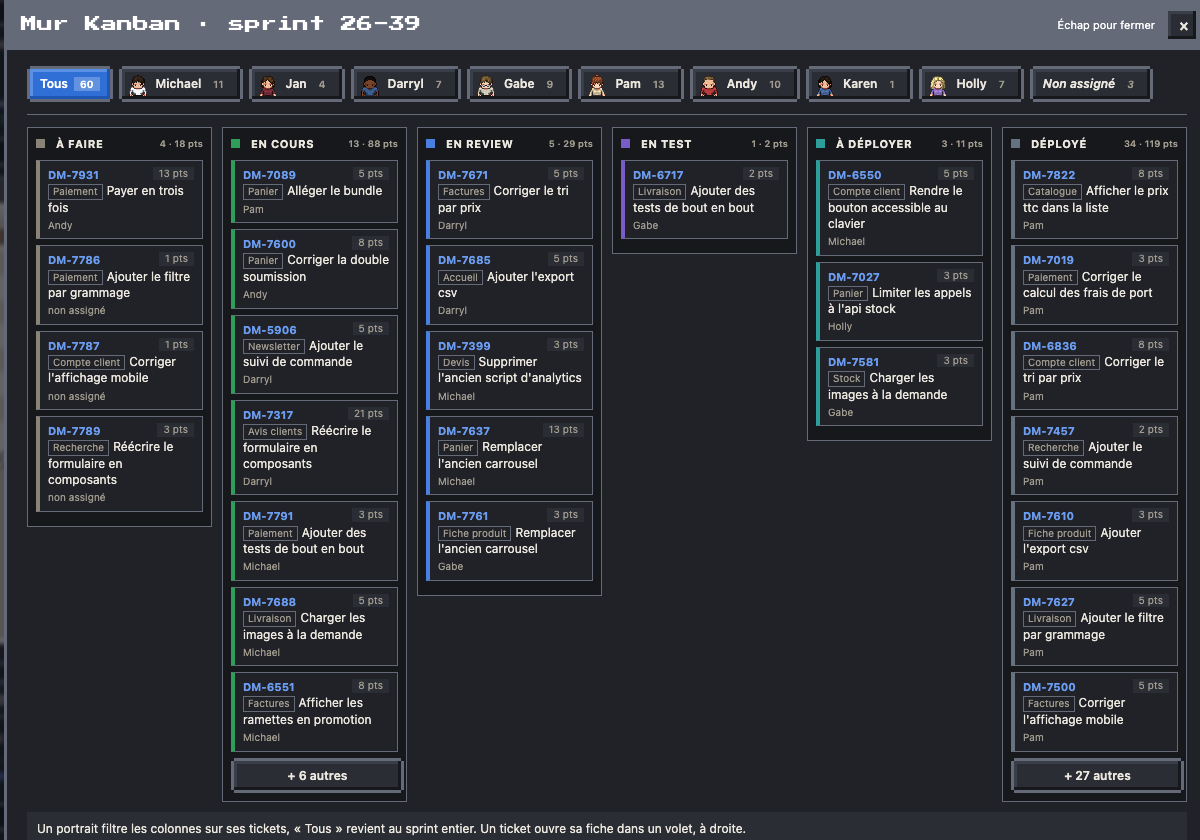
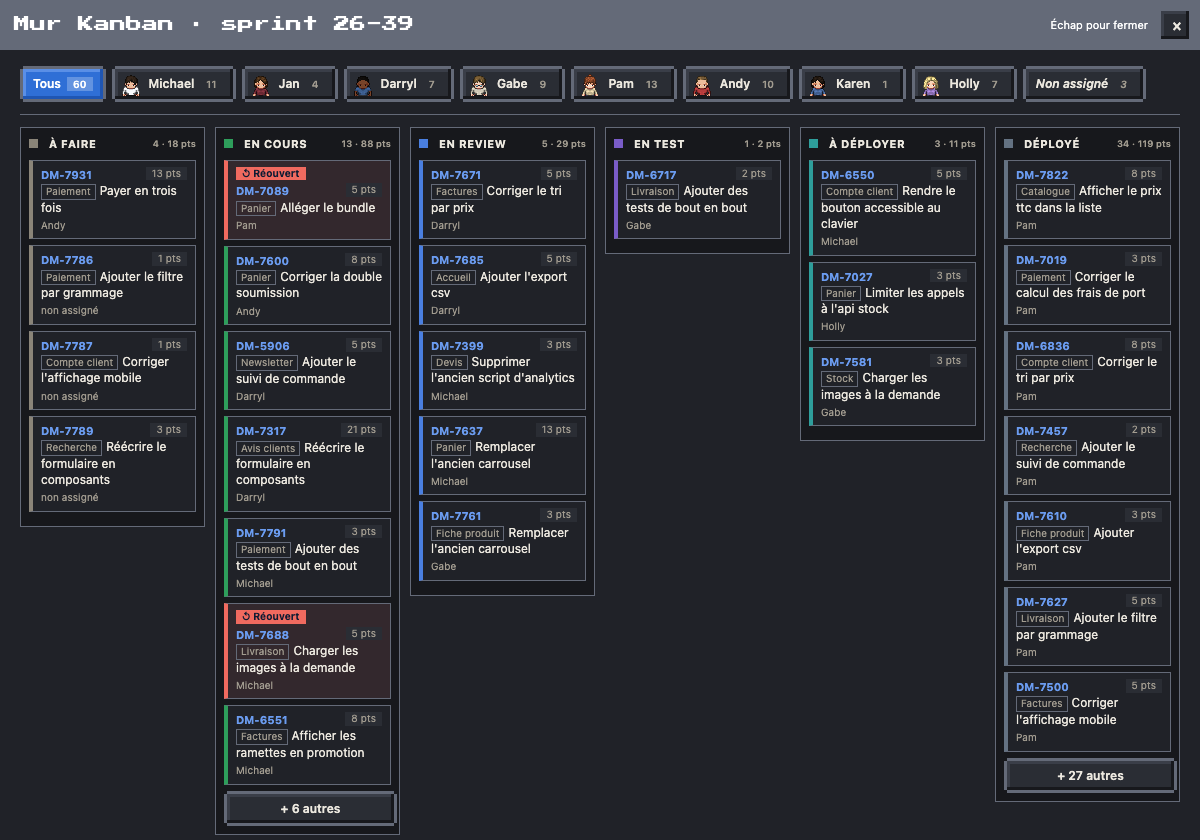
fix(kanban): un ticket réouvert se repère sur sa carte, « ↺ Réouvert »
Un ticket réouvert (statut jira.flow.reopened, « Reopen ») est rangé dans
« En cours », comme dans Jira, et sa carte ne le montrait plus : l'ancienne
liste « Ses tickets » affichait « Réouvert », le Kanban qui l'a remplacée
(#116) non. Sa carte porte maintenant une pastille « ↺ Réouvert », un liseré
rouge et un fond rosé, en vue compacte comprise. Contraste de la pastille :
texte --on-accent, 5,9:1 sur le rouge du thème Classique. Guide (Murs du
bureau), CHANGELOG ; captures kanban-reouvert et kanban ; test kbReopened.

diff --git a/page/src/63-kanban.js b/page/src/63-kanban.js
@@ -8,6 +8,8 @@
 // Volet ouvert : cartes compactes (clé, points, titre), « Déployé » repliée en bande.
 const KB_MAX=7, KB_ALL={};
 let KB_WHO='', KB_VOL=null, KB_BACK=[];
+// un ticket réouvert (statut jira.flow.reopened, rangé dans « En cours ») : pastille « ↺ Réouvert » et liseré rouge
+const kbReopened=x=>!!x.status&&x.status===FLOW.reopened;
 const kbPeople=()=>chars.filter(c=>c.person&&c.team&&c.team.tickets.length);
 function kbTitle(){
   const c=byKey[KB_WHO];
@@ -54,8 +56,9 @@ function kanbanFill(box){
     const pts=list.reduce((a,x)=>a+(+x.points||0),0), n=KB_ALL[k]?list.length:KB_MAX;
     if(KB_VOL&&k==='done')return `<button type="button" class="kbw-col kbw-strip" title="${esc(TCAT[k].t)} : ${list.length} tickets (fermer le volet pour les voir)"><span class="dot" style="background:${TCAT[k].c}"></span>${esc(TCAT[k].t)} · ${list.length}</button>`;
     return `<section class="kbw-col" aria-label="${esc(TCAT[k].t)}"><h3><span class="dot" style="background:${TCAT[k].c}"></span>${esc(TCAT[k].t)}<small>${list.length}${pts?' · '+Math.round(pts)+' pts':''}</small></h3>`+
-      list.slice(0,n).map(x=>{const t=tkComp(x.summary);
-        return `<a href="#" class="kbw-c${x.key===cur?' kb-on':''}" data-tk="${esc(x.key)}"${x.key===cur?' aria-current="true"':''} style="--c:${TCAT[k].c}" title="Ouvrir sa fiche et ses actions"><b>${esc(x.key)}</b>${x.points?`<em>${esc(x.points)} pts</em>`:''}`+
+      list.slice(0,n).map(x=>{const t=tkComp(x.summary), ro=kbReopened(x);
+        return `<a href="#" class="kbw-c${x.key===cur?' kb-on':''}${ro?' kb-ro':''}" data-tk="${esc(x.key)}"${x.key===cur?' aria-current="true"':''} style="--c:${TCAT[k].c}" title="Ouvrir sa fiche et ses actions">`+
+          (ro?'<span class="kb-rot" title="Réouvert en test : retour en cours">↺ Réouvert</span>':'')+`<b>${esc(x.key)}</b>${x.points?`<em>${esc(x.points)} pts</em>`:''}`+
           `<span class="kbw-t">${t.comp?`<span class="kbw-cp">${esc(t.comp)}</span>`:''}${esc(t.title)}</span><small>${esc(x.owner?String(x.owner).split(' ')[0]:'non assigné')}</small></a>`;}).join('')+
       (list.length>n?`<button type="button" class="kbw-more" data-col="${k}">+ ${list.length-n} autre${list.length-n>1?'s':''}</button>`:'')+
       (list.length?'':'<span class="kbw-none">—</span>')+'</section>';

diff --git a/page/src/styles.css b/page/src/styles.css
@@ -240,6 +240,8 @@ button.back kbd{font:10px ui-monospace,Menlo,monospace;border:1px solid var(--li
 .kb-vol .kbw{grid-template-columns:repeat(5,minmax(0,1fr)) 44px;gap:6px}
 .kb-vol .kbw-col{padding:6px}.kb-vol .kbw-col h3 small{display:none}.kb-vol .kbw-c{padding:5px 7px}.kb-vol .kbw-c small,.kb-vol .kbw-cp{display:none}
 .kbw-strip{writing-mode:vertical-rl;transform:rotate(180deg);display:flex;align-items:center;justify-content:flex-end;gap:8px;min-height:220px;margin:0;padding:10px 0;font-size:11px;font-weight:700;text-transform:uppercase;letter-spacing:.05em;color:var(--muted)}
+.kbw-c.kb-ro{border-left-color:var(--err);background:color-mix(in srgb,var(--err) 9%,var(--panel))}
+.kb-rot{display:table;font-size:10px;font-weight:700;padding:0 6px;border-radius:999px;margin:0 0 3px;background:var(--err);color:var(--on-accent)} /* le texte des fonds colorés de chaque thème : 5,9:1 sur le rouge clair du Classique */
 .kbw-c.kb-on{outline:3px solid var(--accent);outline-offset:1px}
 .kbv.side{position:sticky;top:64px;max-height:calc(84vh - 150px);overflow:auto;padding:12px;margin:0;border:1px solid var(--line);border-radius:10px;background:var(--panel);box-shadow:none}
 .mv-host{display:block;margin:0 0 12px}

diff --git a/tests/kanban.test.js b/tests/kanban.test.js
@@ -63,3 +63,9 @@ test('déplacer : ◀ puis ▶, liés à leur ligne de actions.moves (Kronn y re
   run('ACTIONS.move=false;');
   assert.deepEqual(J(`mvRows(${JSON.stringify(t)})`), []);
 });
+
+test('un ticket réouvert (statut jira.flow.reopened) porte la pastille « ↺ Réouvert » ; les autres non', () => {
+  assert.equal(J('kbReopened({status:FLOW.reopened,cat:"doing"})'), true);
+  assert.equal(J('kbReopened({status:"En cours",cat:"doing"})'), false);
+  assert.equal(J('kbReopened({cat:"doing"})'), false);
+});

diff --git a/tools/shots.py b/tools/shots.py
@@ -175,6 +175,8 @@ SHOTS = {
     # déplacer un ticket (◀ / ▶ de sa fiche, workflow « déplacer un ticket ») : le volet d'un ticket en review, puis la carte Kronn
     "kanban-deplacer": (1600, 1000, AT(11) + KB_DEMO + "openTicket(_all.find(t=>t.cat==='review').key);", ".kbv"),
     "carte-deplacer": (1400, 1000, AT(11) + KB_DEMO + "openTicket(_all.find(t=>t.cat==='review').key);document.querySelector('.kbv .mv-next').click();", ".kmodal"),
+    # un ticket réouvert (statut jira.flow.reopened) : pastille « ↺ Réouvert » dans la colonne En cours
+    "kanban-reouvert": (1600, 1000, AT(11) + KB_DEMO + "TEAM.people.flatMap(p=>p.tickets).filter(x=>x.cat==='doing')[1].status=FLOW.reopened;openKanban();", ".bp-wide"),
     # le Kanban filtré sur une personne (barre de portraits en haut)
     "kanban-personne": (1600, 1000, AT(11) + "select('kanban');KB_WHO=kbPeople()[0].key;kanbanFill(document.querySelector('.bp-wbody'));", ".bp-wide"),
     # fiche d'un ticket : ses PR et les workflows à lancer (dataset actions simulé depuis l'équipe de démo)

diff --git a/CHANGELOG.md b/CHANGELOG.md
@@ -39,6 +39,7 @@ Format : [Keep a Changelog](https://keepachangelog.com/fr/1.1.0/). Versions : `0
 
 ### Corrigé
 
+- Mur Kanban : un ticket réouvert (statut `jira.flow.reopened`) se repère de nouveau, avec une pastille « ↺ Réouvert » et un liseré rouge sur sa carte ; l'ancienne liste « Ses tickets » le signalait, la carte du Kanban non.
 - Mes todos : « ＋ » et Entrée ajoutent bien la todo dans Kronn. Le champ était dans un `<form>`, dont l'envoi est bloqué par le bac à sable des Live Pages (iframe sans `allow-forms`) : rien ne se passait.
 - Mise en prod d'une PR : une branche qui a déjà fusionné sa base ne s'arrête plus sur un faux conflit à l'étape rebase ; la base est fusionnée en local puis tout est squashé en un seul commit posé dessus, sans commit de merge poussé (à republier avec `publish.py workflows`).
 - Galerie des scènes : jouable à toute heure (le soir, la démonstration se joue à 11 h du dernier jour ouvré, puis la page revient à son heure) ; ses boutons restaient grisés une fois ouverte le soir.

diff --git a/guide/fonctionnalites/08-murs.md b/guide/fonctionnalites/08-murs.md
@@ -14,6 +14,10 @@ Les objets du plan sont cliquables, et une règle dit où ils s'ouvrent :
 
 ![Le Mur Kanban filtré sur une personne](../img/kanban-personne.png)
 
+Un ticket **réouvert** (statut `jira.flow.reopened`, « Reopen ») reste dans « En cours », comme dans Jira, mais sa carte porte une pastille rouge **« ↺ Réouvert »**, un liseré rouge et un fond rosé : on le repère d'un coup d'œil, en vue compacte comprise.
+
+![Deux tickets réouverts dans la colonne En cours](../img/kanban-reouvert.png)
+
 | Volet d'un ticket | Sa PR, dans le volet |
 | --- | --- |
 | ![Le volet d'un ticket](../img/kanban-volet.png) | ![La PR du ticket, « ← DM-7637 »](../img/kanban-volet-pr.png) |
